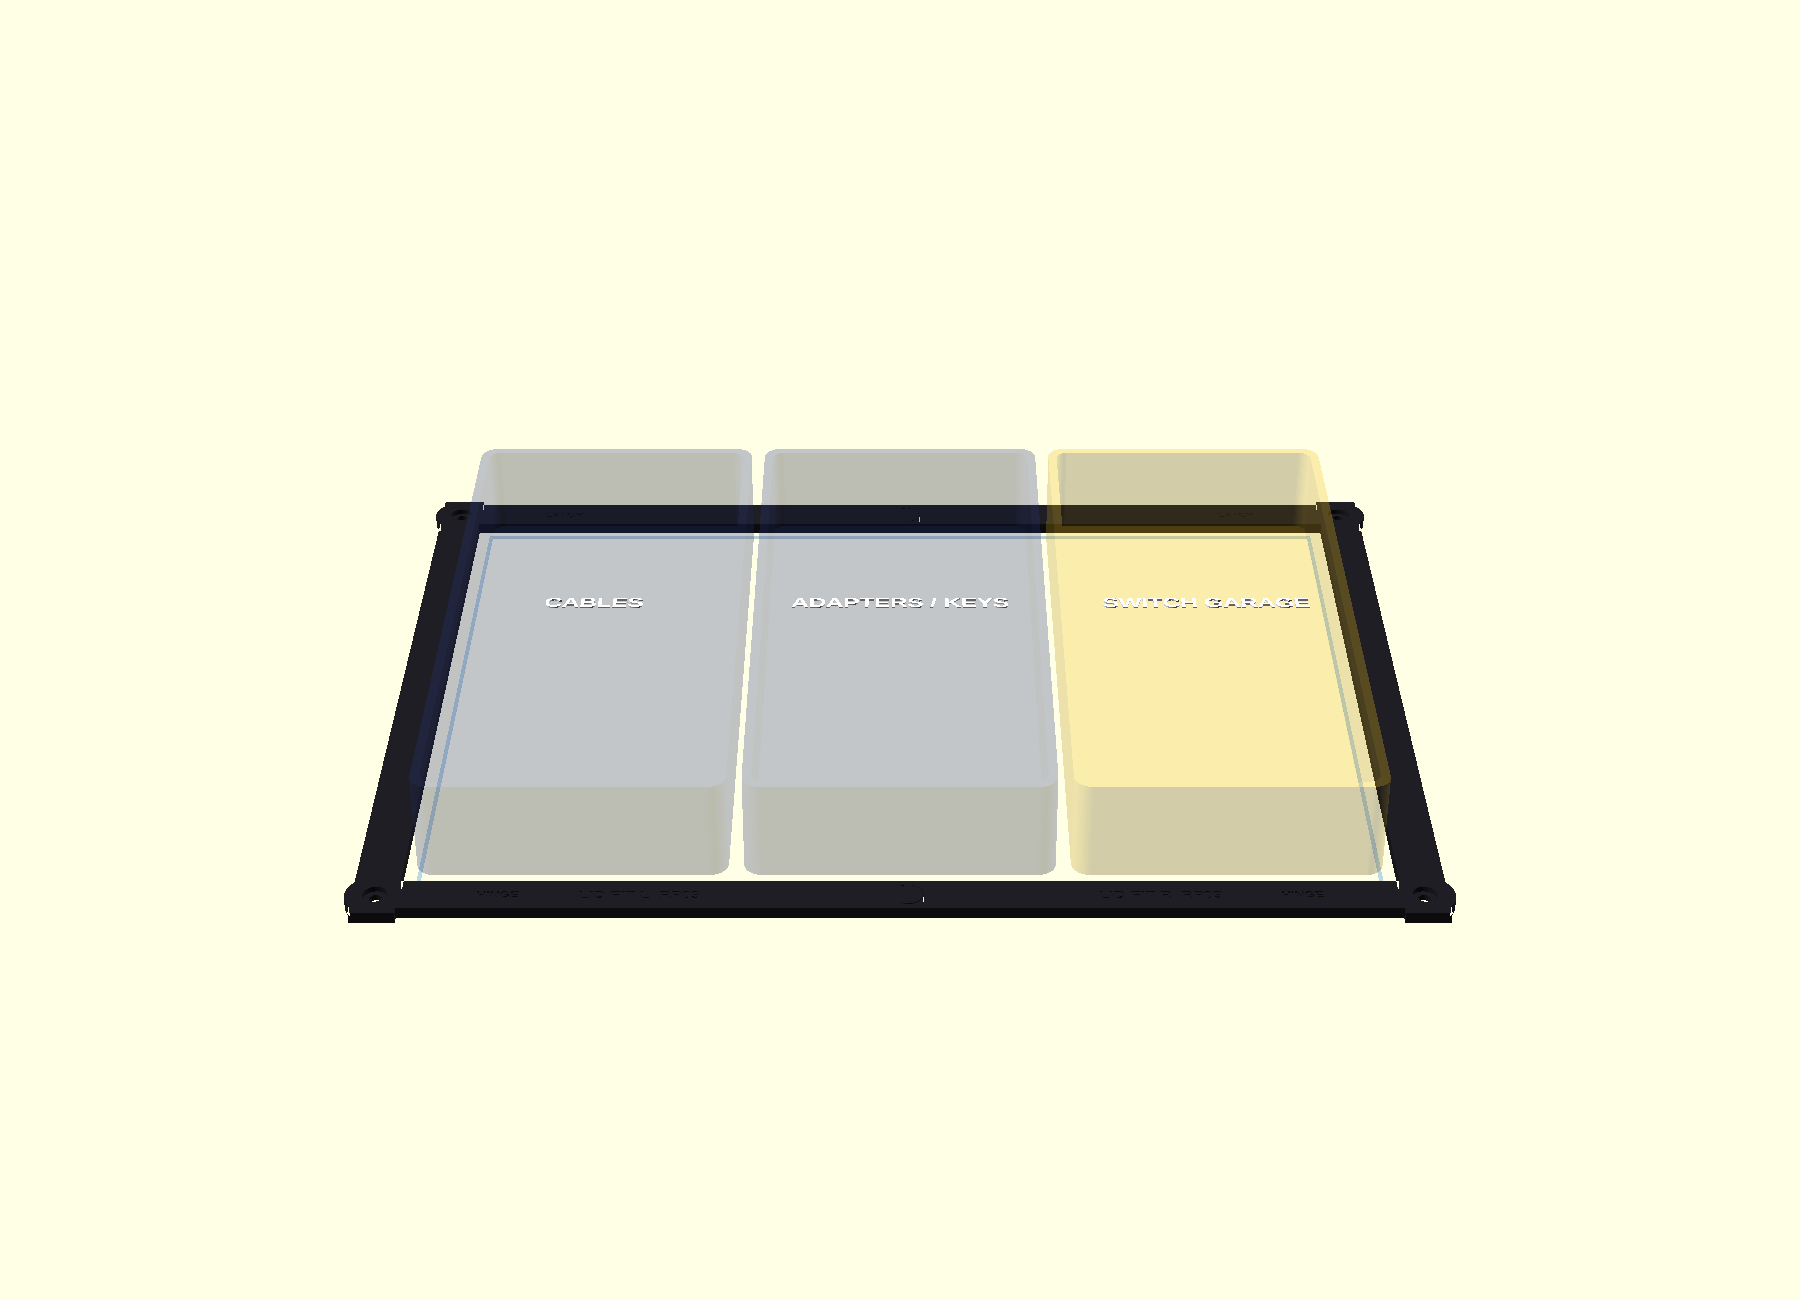
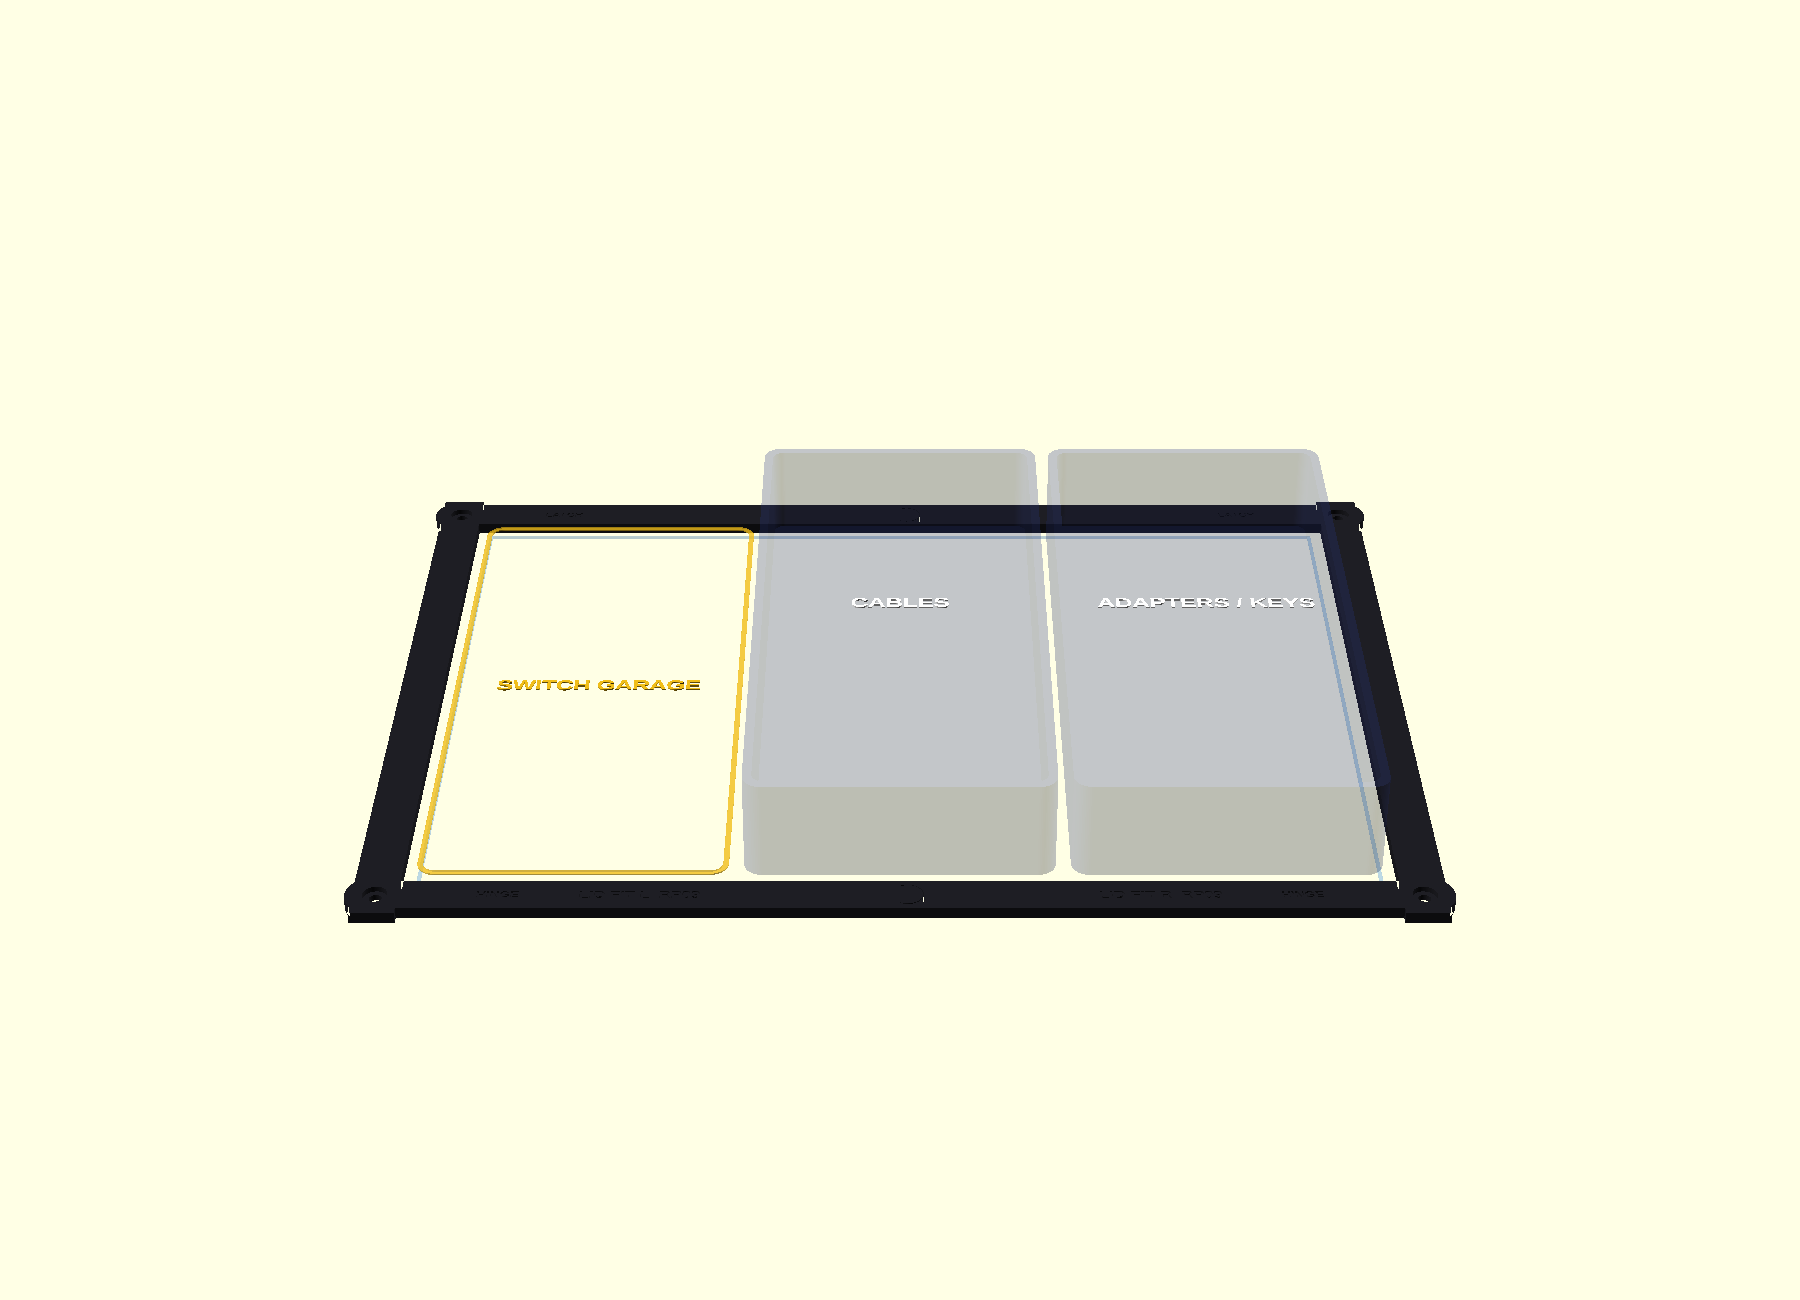
model: reserve left lid bay for safety switches

Changed region(s): [[0.2178, 0.3385, 0.7778, 0.6769]]

diff --git a/3d Models/apache case/calibration/lid-storage/RP09/README.md b/3d Models/apache case/calibration/lid-storage/RP09/README.md
@@ -58,11 +58,17 @@ a straight-on photograph of the installed frame plus the marked locator tiles.
 ## Intended final architecture
 
 The final cassette will use the four-boss frame as a permanent mounting
-interface and divide the 255 x 183 mm rib opening into three removable bays:
+interface and divide the 255 x 183 mm rib opening into three bays. Viewed with
+the open lid in the same orientation as the supplied photograph, they are:
 
-- flat-coil cable storage with positive clips for the 6-inch leads;
-- a lidded adapter/key cartridge; and
-- an empty safety-switch garage wherever the witness test locates the covers.
+- left: a permanently open safety-switch garage;
+- centre: flat-coil cable storage with positive clips for the 6-inch leads; and
+- right: a lidded adapter/key cartridge.
+
+The two storage bays can share one removable cover. Its visible face becomes
+the Andworx advertising panel while the entire left bay remains open. The
+switch witness test still determines the final size and edge clearances of that
+left cutout; the named bay is not permission to skip the closure test.
 
 The nominal storage depth is limited to 28 mm. This leaves room for a 2-3 mm
 base/cover and a 3-5 mm clearance allowance within the measured 35 mm lid.
@@ -87,4 +93,3 @@ Do not design or print the full storage cassette until:
 - the gasket and ribs remain clear;
 - the safety-switch envelope is transferred into lid coordinates; and
 - the maximum safe pocket depth is confirmed with the complete panel installed.
-
